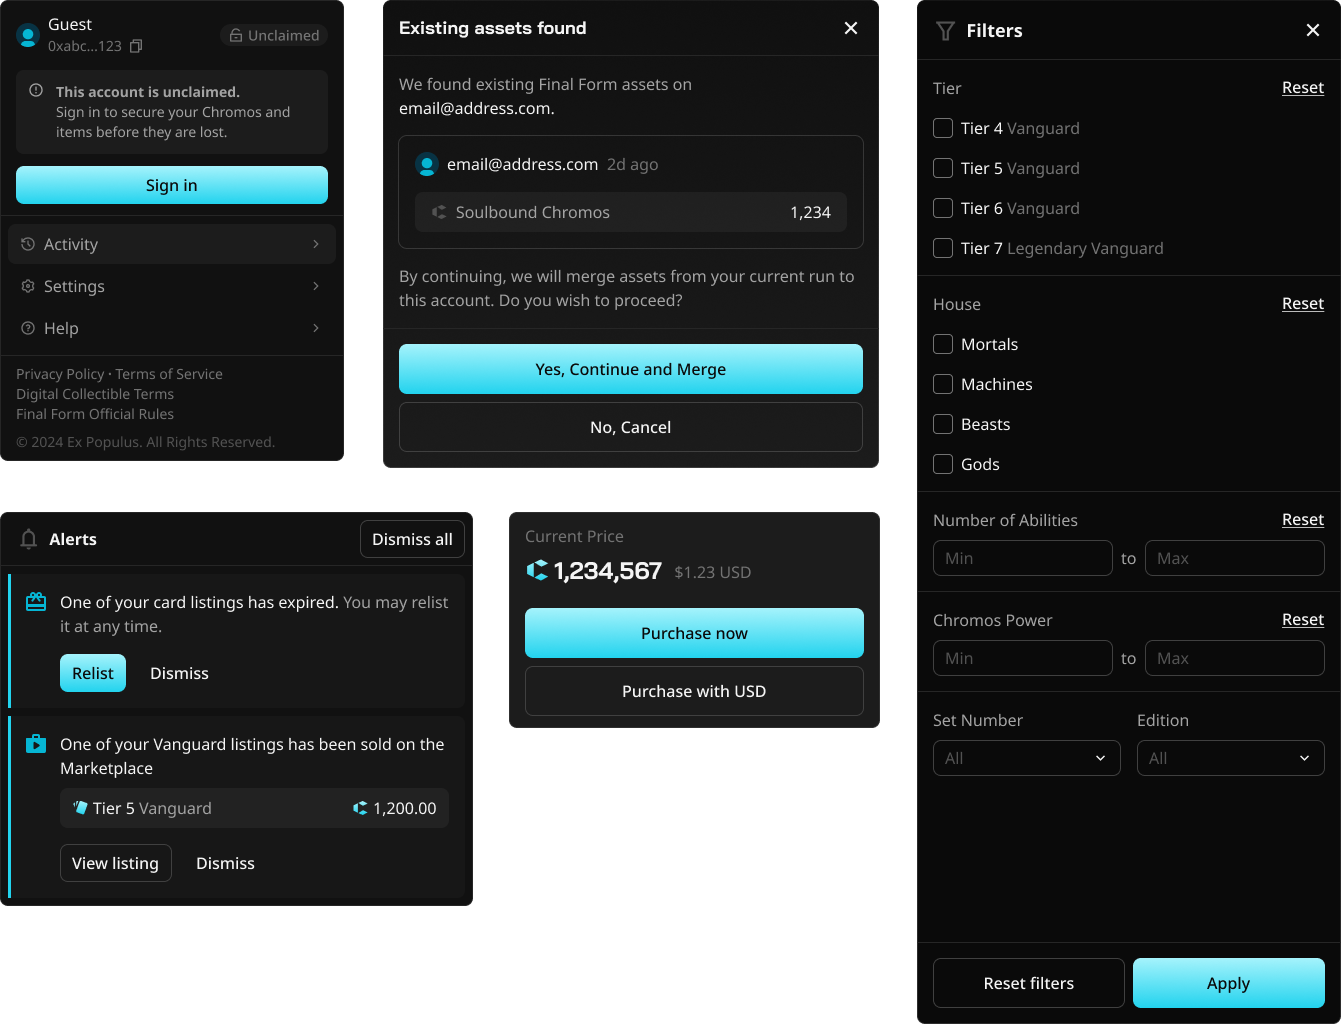
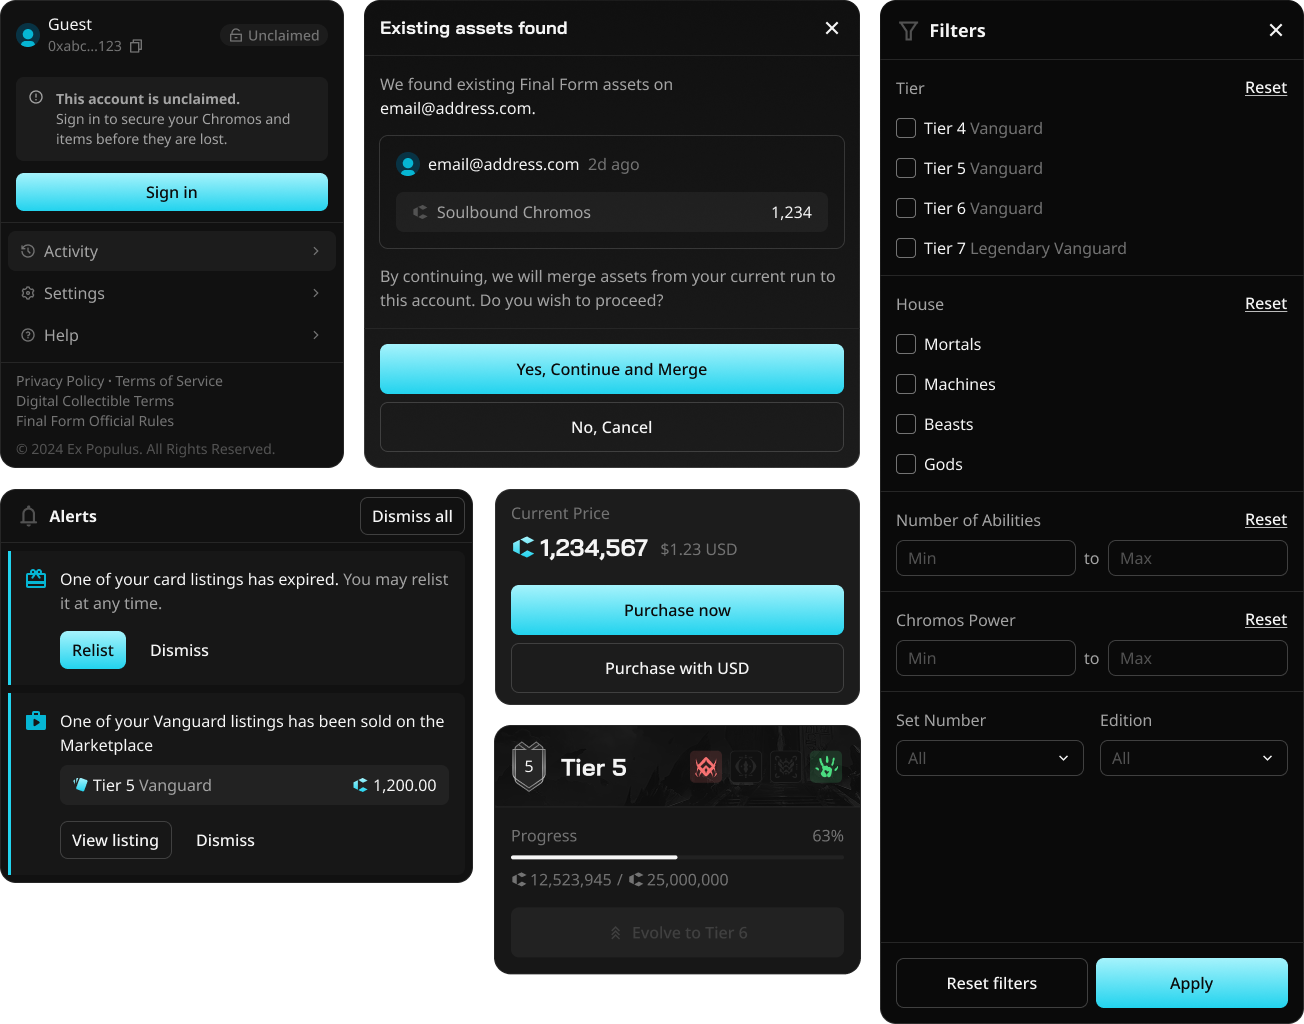
Extend mesh-gradient image treatment to case study pages and animate stats
Introduce CaseImage component that mirrors the home thumbnail layout
(animated mesh background, image bleeds off bottom) and use it across
case study hero, image pairs, full-bleed blocks, and next-case card.
Add scroll-triggered count-up animation to StatList, and refresh the
ex-populus and partners thumbnails.

diff --git a/components/blocks/stat-list.tsx b/components/blocks/stat-list.tsx
@@ -1,23 +1,124 @@
+"use client";
+
+import { useEffect, useMemo, useRef, useState } from "react";
+
 type Stat = { value: string; label: string };
 
-export function StatList({ stats }: { stats: Stat[] }) {
+function parseStat(raw: string) {
+  const m = raw.match(/^([^0-9]*)([0-9][0-9,]*(?:\.[0-9]+)?)(.*)$/);
+  if (!m) return null;
+  const [, prefix, numStr, suffix] = m;
+  return {
+    prefix,
+    target: parseFloat(numStr.replace(/,/g, "")),
+    decimals: (numStr.split(".")[1] ?? "").length,
+    hasCommas: numStr.includes(","),
+    suffix,
+  };
+}
+
+function formatCount(n: number, decimals: number, hasCommas: boolean) {
+  if (decimals > 0) return n.toFixed(decimals);
+  const rounded = Math.round(n);
+  return hasCommas ? rounded.toLocaleString() : String(rounded);
+}
+
+function AnimatedStat({
+  value,
+  label,
+  active,
+  delay,
+  isLast,
+}: {
+  value: string;
+  label: string;
+  active: boolean;
+  delay: number;
+  isLast: boolean;
+}) {
+  const parsed = useMemo(() => parseStat(value), [value]);
+  const [count, setCount] = useState(0);
+  const raf = useRef<number>(0);
+
+  useEffect(() => {
+    if (!active || !parsed) return;
+
+    if (window.matchMedia("(prefers-reduced-motion: reduce)").matches) {
+      setCount(parsed.target);
+      return;
+    }
+
+    const timer = setTimeout(() => {
+      const duration = 1000;
+      let start: number | null = null;
+
+      const tick = (ts: number) => {
+        if (!start) start = ts;
+        const t = Math.min((ts - start) / duration, 1);
+        const eased = 1 - Math.pow(1 - t, 3);
+        setCount(eased * parsed.target);
+        if (t < 1) raf.current = requestAnimationFrame(tick);
+      };
+
+      raf.current = requestAnimationFrame(tick);
+    }, delay);
+
+    return () => {
+      clearTimeout(timer);
+      cancelAnimationFrame(raf.current);
+    };
+  }, [active, parsed?.target, delay]);
+
+  const displayed = parsed
+    ? parsed.prefix + formatCount(count, parsed.decimals, parsed.hasCommas) + parsed.suffix
+    : value;
+
   return (
-    <div className="flex h-fit flex-col self-start rounded-2xl outline outline-1 outline-rule-strong">
+    <div className={"flex flex-col gap-4 p-6" + (!isLast ? " border-b border-rule" : "")}>
+      <div className="font-display text-[40px] font-normal tracking-[-0.05em] leading-none text-ink tabular-nums">
+        {displayed}
+      </div>
+      <div className="font-mono text-[13px] leading-4 tracking-[0.1em] uppercase text-ink-subtle">
+        {label}
+      </div>
+    </div>
+  );
+}
+
+export function StatList({ stats }: { stats: Stat[] }) {
+  const ref = useRef<HTMLDivElement>(null);
+  const [active, setActive] = useState(false);
+
+  useEffect(() => {
+    const el = ref.current;
+    if (!el) return;
+    const io = new IntersectionObserver(
+      ([entry]) => {
+        if (entry.isIntersecting) {
+          setActive(true);
+          io.disconnect();
+        }
+      },
+      { threshold: 0.25 }
+    );
+    io.observe(el);
+    return () => io.disconnect();
+  }, []);
+
+  return (
+    <div
+      ref={ref}
+      className="flex h-fit flex-col self-start rounded-2xl outline outline-1 outline-rule-strong"
+    >
       {stats.map((stat, i) => (
-        <div
+        <AnimatedStat
           key={stat.label}
-          className={
-            "flex flex-col gap-4 p-6" +
-            (i < stats.length - 1 ? " border-b border-rule" : "")
-          }
-        >
-          <div className="font-display text-[40px] font-normal tracking-[-0.05em] leading-none text-ink tabular-nums">
-            {stat.value}
-          </div>
-          <div className="font-mono text-[13px] leading-4 tracking-[0.1em] uppercase text-ink-subtle">
-            {stat.label}
-          </div>
-        </div>
+          value={stat.value}
+          label={stat.label}
+          active={active}
+          delay={i * 80}
+          isLast={i === stats.length - 1}
+        />
       ))}
     </div>
   );

diff --git a/components/ui/case-image.tsx b/components/ui/case-image.tsx
@@ -1,0 +1,90 @@
+"use client";
+
+import { MeshGradient } from "@paper-design/shaders-react";
+import type { MediaPalette } from "@/components/ui/media-frame";
+
+const FALLBACK_COLORS = ["#F4F4F5", "#C7D2FE", "#FBCFE8", "#A5F3FC"];
+const GRADIENT_MASK = "linear-gradient(to bottom, black 0%, rgba(0,0,0,0.4) 100%)";
+const GRADIENT_FALLBACK =
+  "linear-gradient(in oklab 180deg, oklab(80.2% 0 0 / 5%) 0%, oklab(80.2% 0 0 / 25%) 100%)";
+const IMAGE_SHADOW =
+  "drop-shadow(rgba(0,0,0,0.25) 0px 2px 4px) drop-shadow(rgba(0,0,0,0.25) 0px 8px 16px) drop-shadow(rgba(0,0,0,0.25) 0px 32px 32px)";
+
+/**
+ * Case study page image block. Mirrors the home-page thumbnail structure:
+ * mesh gradient background, 64px inset top/sides, image bleeds off the bottom.
+ * When no src is provided, renders a gradient placeholder at the given aspect ratio.
+ */
+export function CaseImage({
+  src,
+  alt = "",
+  palette,
+  aspect = "32/15",
+  padding = 64,
+  hoverScale = false,
+}: {
+  src?: string;
+  alt?: string;
+  palette?: MediaPalette;
+  aspect?: string;
+  padding?: number;
+  hoverScale?: boolean;
+}) {
+  const colors = palette?.colors ?? FALLBACK_COLORS;
+  const [offsetX = 0, offsetY = 0] = palette?.offset ?? [];
+
+  return (
+    <div
+      className="relative"
+      style={{
+        borderRadius: 24,
+        overflow: "clip",
+        transform: "translateZ(0)",
+        ...(src
+          ? { padding: `${padding}px` }
+          : { aspectRatio: aspect }),
+      }}
+    >
+      {/* Mesh gradient background */}
+      <div
+        aria-hidden
+        className="pointer-events-none absolute inset-0 motion-reduce:hidden"
+        style={{
+          filter: "blur(16px)",
+          maskImage: GRADIENT_MASK,
+          WebkitMaskImage: GRADIENT_MASK,
+        }}
+      >
+        <MeshGradient
+          colors={colors}
+          speed={0.08}
+          distortion={0.75}
+          swirl={0.45}
+          grainMixer={0}
+          grainOverlay={0}
+          offsetX={offsetX}
+          offsetY={offsetY}
+          style={{ width: "100%", height: "100%" }}
+        />
+      </div>
+
+      {/* Static fallback for prefers-reduced-motion */}
+      <div
+        aria-hidden
+        className="pointer-events-none absolute inset-0 hidden motion-reduce:block"
+        style={{ backgroundImage: GRADIENT_FALLBACK }}
+      />
+
+      {src && (
+        <div className="relative flex items-start justify-center">
+          <img
+            src={src}
+            alt={alt}
+            className={"block w-full object-cover object-top" + (hoverScale ? " transition-transform duration-[var(--duration-medium)] ease-[var(--ease-standard)] group-hover:scale-[1.015]" : "")}
+            style={{ filter: IMAGE_SHADOW }}
+          />
+        </div>
+      )}
+    </div>
+  );
+}

diff --git a/components/blocks/case-study-layout.tsx b/components/blocks/case-study-layout.tsx
@@ -1,5 +1,5 @@
 import { Container } from "@/components/ui/container";
-import { MediaFrame } from "@/components/ui/media-frame";
+import { CaseImage } from "@/components/ui/case-image";
 import { Reveal } from "@/components/ui/reveal";
 import { ScrollProgress } from "@/components/ui/scroll-progress";
 import { Header } from "@/components/blocks/header";
@@ -38,12 +38,11 @@ export function CaseStudyLayout({ data }: { data: CaseStudy }) {
       <section className="px-6 md:px-12 pb-12">
         <Container>
           <Reveal delay={240}>
-            <MediaFrame
-              aspect="32/15"
-              padding={16}
+            <CaseImage
               src={data.heroImage}
               alt={data.headline}
               palette={data.palette}
+              aspect="32/15"
             />
           </Reveal>
         </Container>
@@ -146,18 +145,8 @@ function BlockRenderer({
       <section className="px-6 md:px-12 py-12">
         <Container>
           <div className="grid gap-6 md:grid-cols-2">
-            <MediaFrame
-              aspect="4/3"
-              padding={16}
-              src={a}
-              palette={palette}
-            />
-            <MediaFrame
-              aspect="4/3"
-              padding={16}
-              src={b}
-              palette={palette}
-            />
+            <CaseImage src={a} palette={palette} aspect="4/3" />
+            <CaseImage src={b} palette={palette} aspect="4/3" />
           </div>
         </Container>
       </section>
@@ -168,12 +157,7 @@ function BlockRenderer({
     return (
       <section className="px-6 md:px-12 py-12">
         <Container>
-          <MediaFrame
-            aspect="32/15"
-            padding={16}
-            src={block.image}
-            palette={palette}
-          />
+          <CaseImage src={block.image} palette={palette} aspect="32/15" />
         </Container>
       </section>
     );

diff --git a/components/blocks/next-case-card.tsx b/components/blocks/next-case-card.tsx
@@ -1,6 +1,7 @@
 import Link from "next/link";
 import { ArrowRight } from "@/components/ui/button";
-import { MediaFrame, type MediaPalette } from "@/components/ui/media-frame";
+import { CaseImage } from "@/components/ui/case-image";
+import type { MediaPalette } from "@/components/ui/media-frame";
 
 export function NextCaseCard({
   href,
@@ -62,14 +63,7 @@ export function NextCaseCard({
           </div>
         </div>
         <div className="relative flex-1">
-          <MediaFrame
-            aspect="4/3"
-            padding={16}
-            src={imageSrc}
-            alt={headline}
-            palette={palette}
-            className="!rounded-2xl h-full"
-          />
+          <CaseImage src={imageSrc} alt={headline} palette={palette} aspect="4/3" padding={32} hoverScale />
         </div>
       </div>
     </Link>

diff --git a/lib/case-studies.ts b/lib/case-studies.ts
@@ -47,6 +47,7 @@ export const caseStudies: Record<string, CaseStudy> = {
     role: "Lead Designer",
     yearRange: "Q2-Q3 2025",
     headline: "How rapid AI prototyping unlocked a new flow for 180K users.",
+    heroImage: "/raijin-thumb.png",
     overview: [
       "Raijin is a rewards platform where users earn prize entries by completing tasks in partner-run campaigns. The more tasks you complete, the better your odds in each prize pool.",
       "To maximize their odds, users should be doing every task across every campaign. They weren’t. Why?",
@@ -98,6 +99,7 @@ export const caseStudies: Record<string, CaseStudy> = {
       slug: "partners",
       headline:
         "How to scale and control design quality across 40+ external partners.",
+      imageSrc: "/partners-thumb.png",
     },
     palette: {
       colors: ["#E4E4E7", "#A5B4FC", "#F9A8D4", "#D8B4FE"],
@@ -113,6 +115,7 @@ export const caseStudies: Record<string, CaseStudy> = {
     yearRange: "Q1 2025",
     headline:
       "How to scale and control design quality across 40+ external partners.",
+    heroImage: "/partners-thumb.png",
     overview: [
       "Raijin is a rewards platform where users earn prize entries by completing tasks in partner-run campaigns. Assets for each campaign could either be produced by internal designers or external partner-side designers.",
       "Raijin’s partner pipeline grew from a handful of campaigns to 40+ external partners shipping concurrently. Every campaign needed custom asset work, and that work was breaking down at handoff.",
@@ -185,6 +188,7 @@ export const caseStudies: Record<string, CaseStudy> = {
     next: {
       slug: "ex-populus",
       headline: "Why we chose not to build a design system from scratch.",
+      imageSrc: "/ex-populus-thumb.png",
     },
     palette: {
       colors: ["#E4E4E7", "#7DD3FC", "#6EE7B7", "#67E8F9"],
@@ -199,6 +203,7 @@ export const caseStudies: Record<string, CaseStudy> = {
     role: "Lead Designer",
     yearRange: "Q3 2024",
     headline: "Why we chose not to build a design system from scratch.",
+    heroImage: "/ex-populus-thumb.png",
     overview: [
       "Ex Populus was building a card-based trading game and needed a web UI. When I joined the team, the project was carrying significant design debt that was slowing every dev and QA cycle.",
     ],
@@ -259,6 +264,7 @@ export const caseStudies: Record<string, CaseStudy> = {
     next: {
       slug: "xai",
       headline: "Why we built a consumer-facing UI for a product that didn’t need one.",
+      imageSrc: "/xai-thumb.png",
     },
     palette: {
       colors: ["#E4E4E7", "#FDBA74", "#F9A8D4", "#FCD34D"],
@@ -274,6 +280,7 @@ export const caseStudies: Record<string, CaseStudy> = {
     yearRange: "Q4 2023",
     headline:
       "Why we built a consumer-facing UI for a product that didn’t need one, and made $40M.",
+    heroImage: "/xai-thumb.png",
     overview: [
       "Xai Sentry Nodes are apps that users can run on their computer. Once they buy a key, they’ll be able to receive rewards for running it.",
       "Products like this didn’t ship as consumer apps. They shipped as CLI tools, configured by hand, run from a terminal. That was the category convention when we started.",
@@ -314,6 +321,7 @@ export const caseStudies: Record<string, CaseStudy> = {
       slug: "raijin",
       headline:
         "How rapid AI prototyping unlocked a new flow for 180K users.",
+      imageSrc: "/raijin-thumb.png",
     },
     palette: {
       colors: ["#E4E4E7", "#C4B5FD", "#D8B4FE", "#A5B4FC"],

diff --git a/components/blocks/case-study-tile.tsx b/components/blocks/case-study-tile.tsx
@@ -86,7 +86,9 @@ function CaseThumbnail({
         <img
           src={src}
           alt={alt}
-          className="block w-full object-cover object-top"
+          className="block w-full object-cover object-top
+            transition-transform duration-[var(--duration-medium)] ease-[var(--ease-standard)]
+            group-hover:scale-[1.015]"
           style={{ filter: IMAGE_SHADOW }}
         />
       </div>